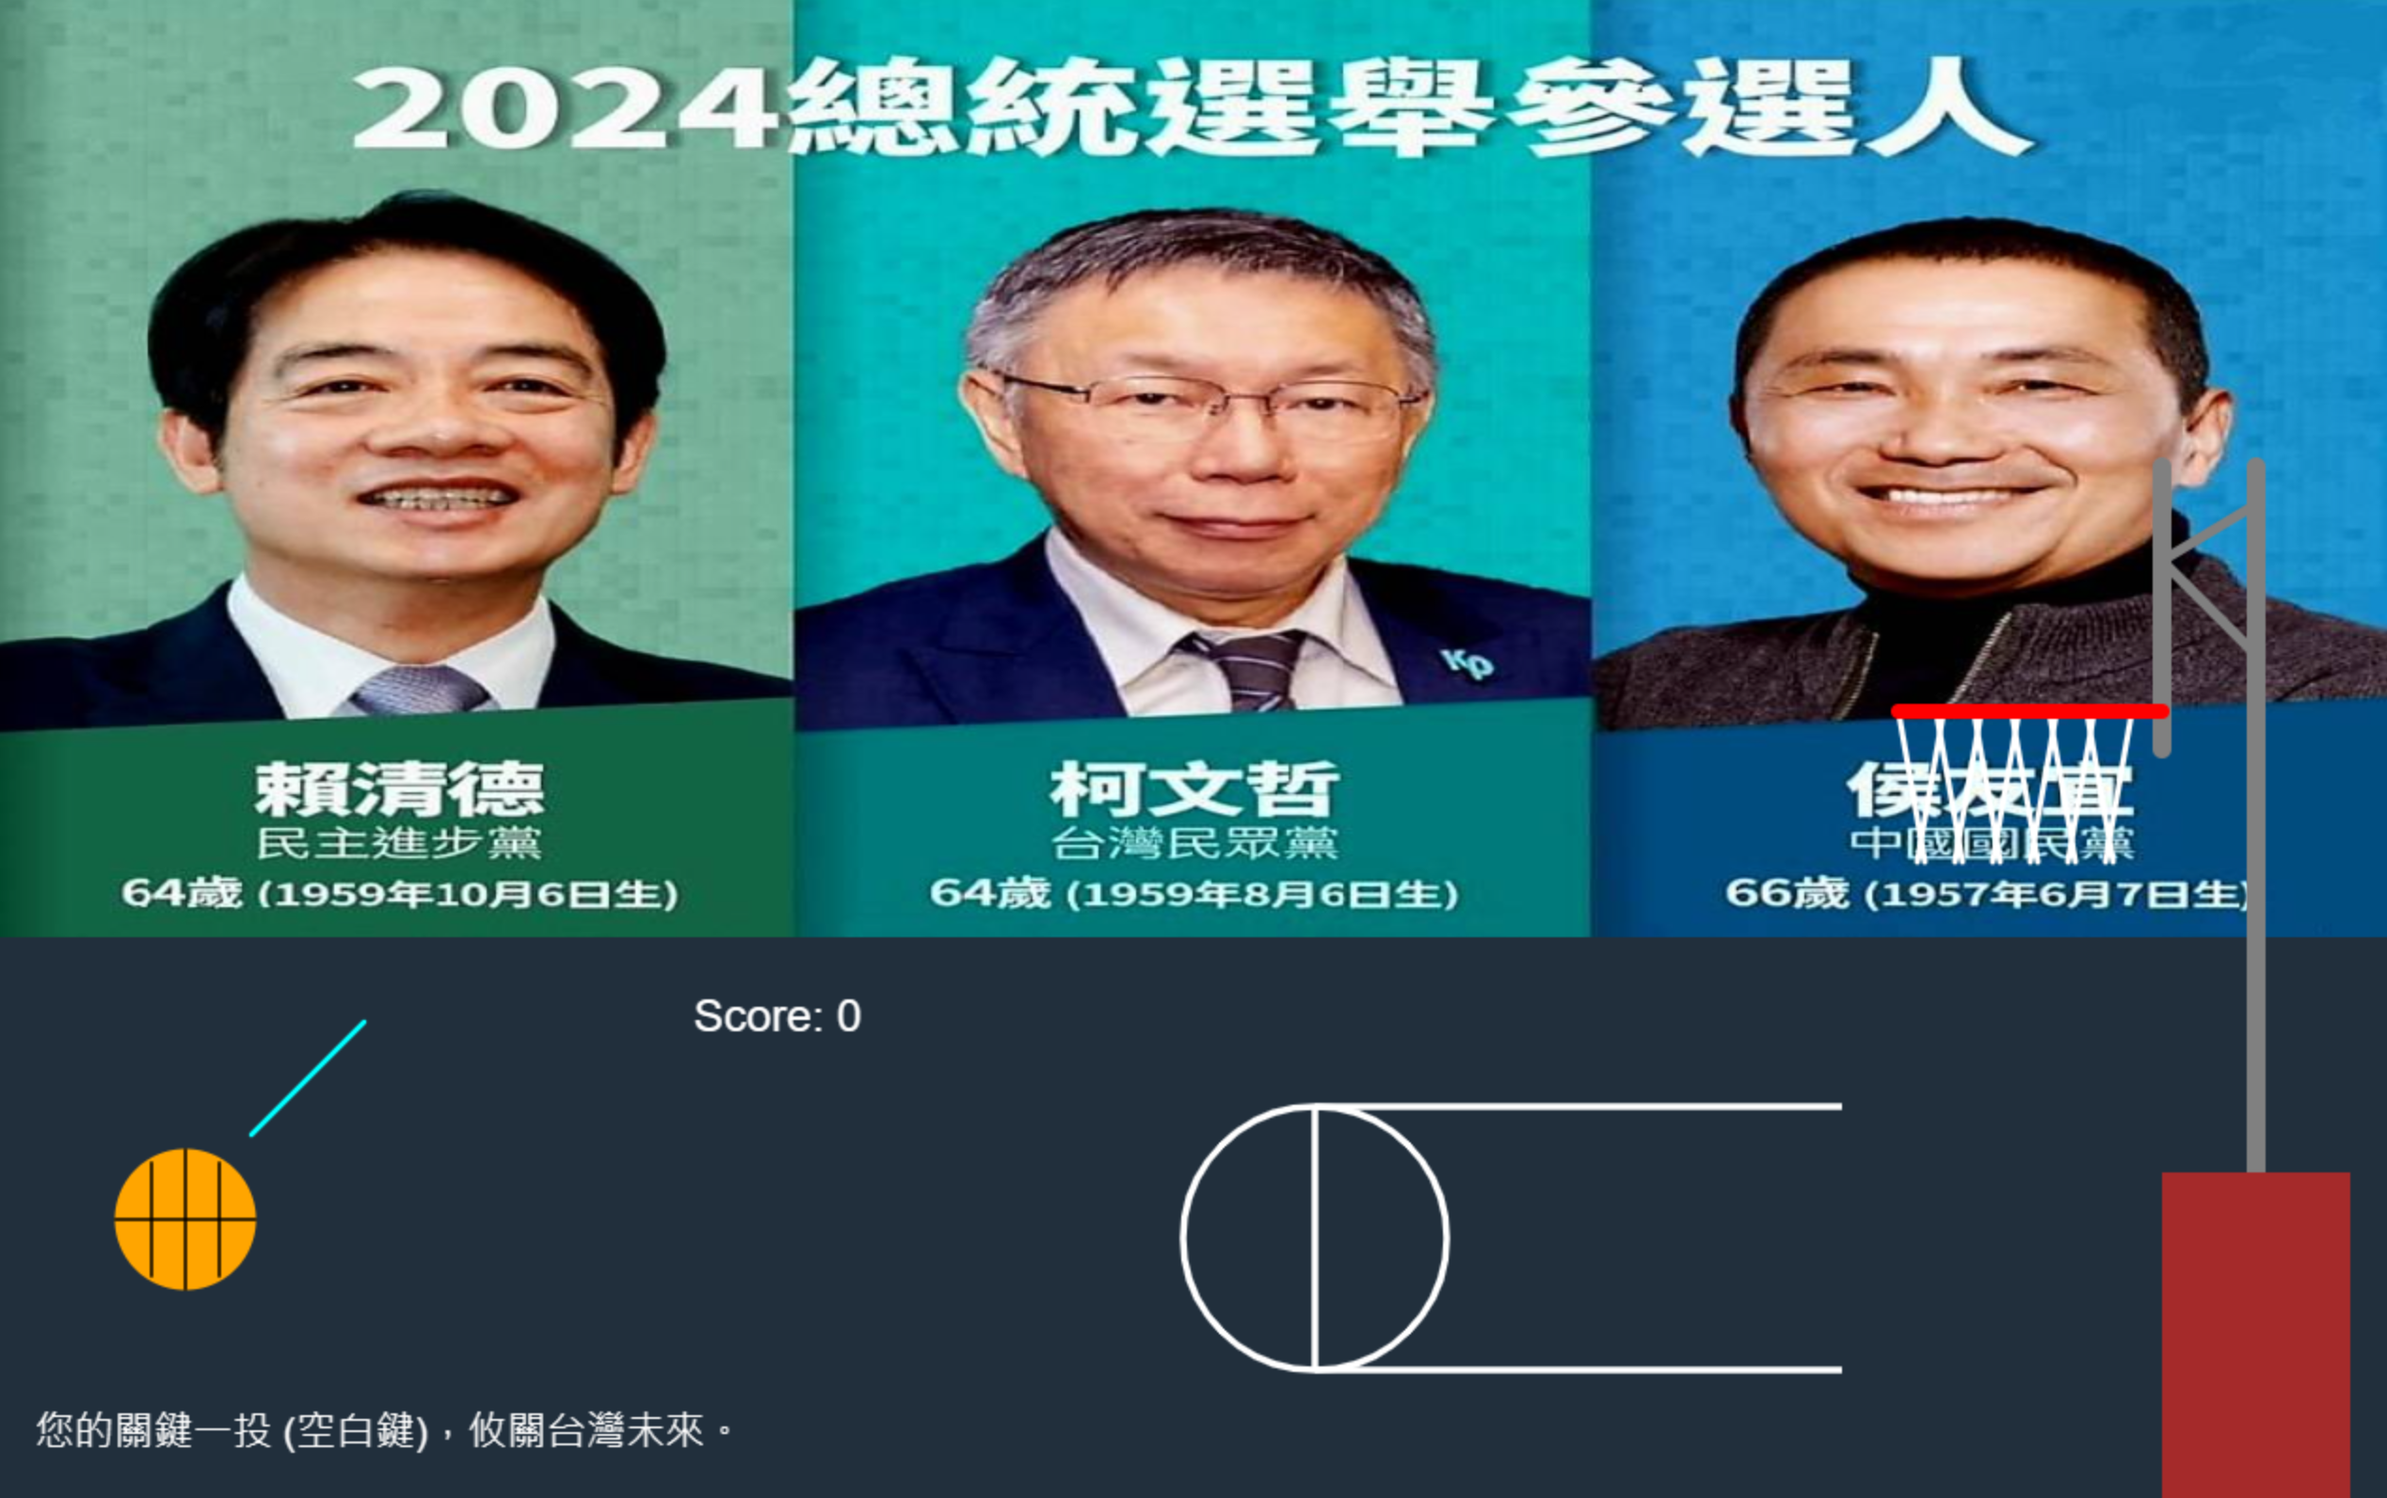
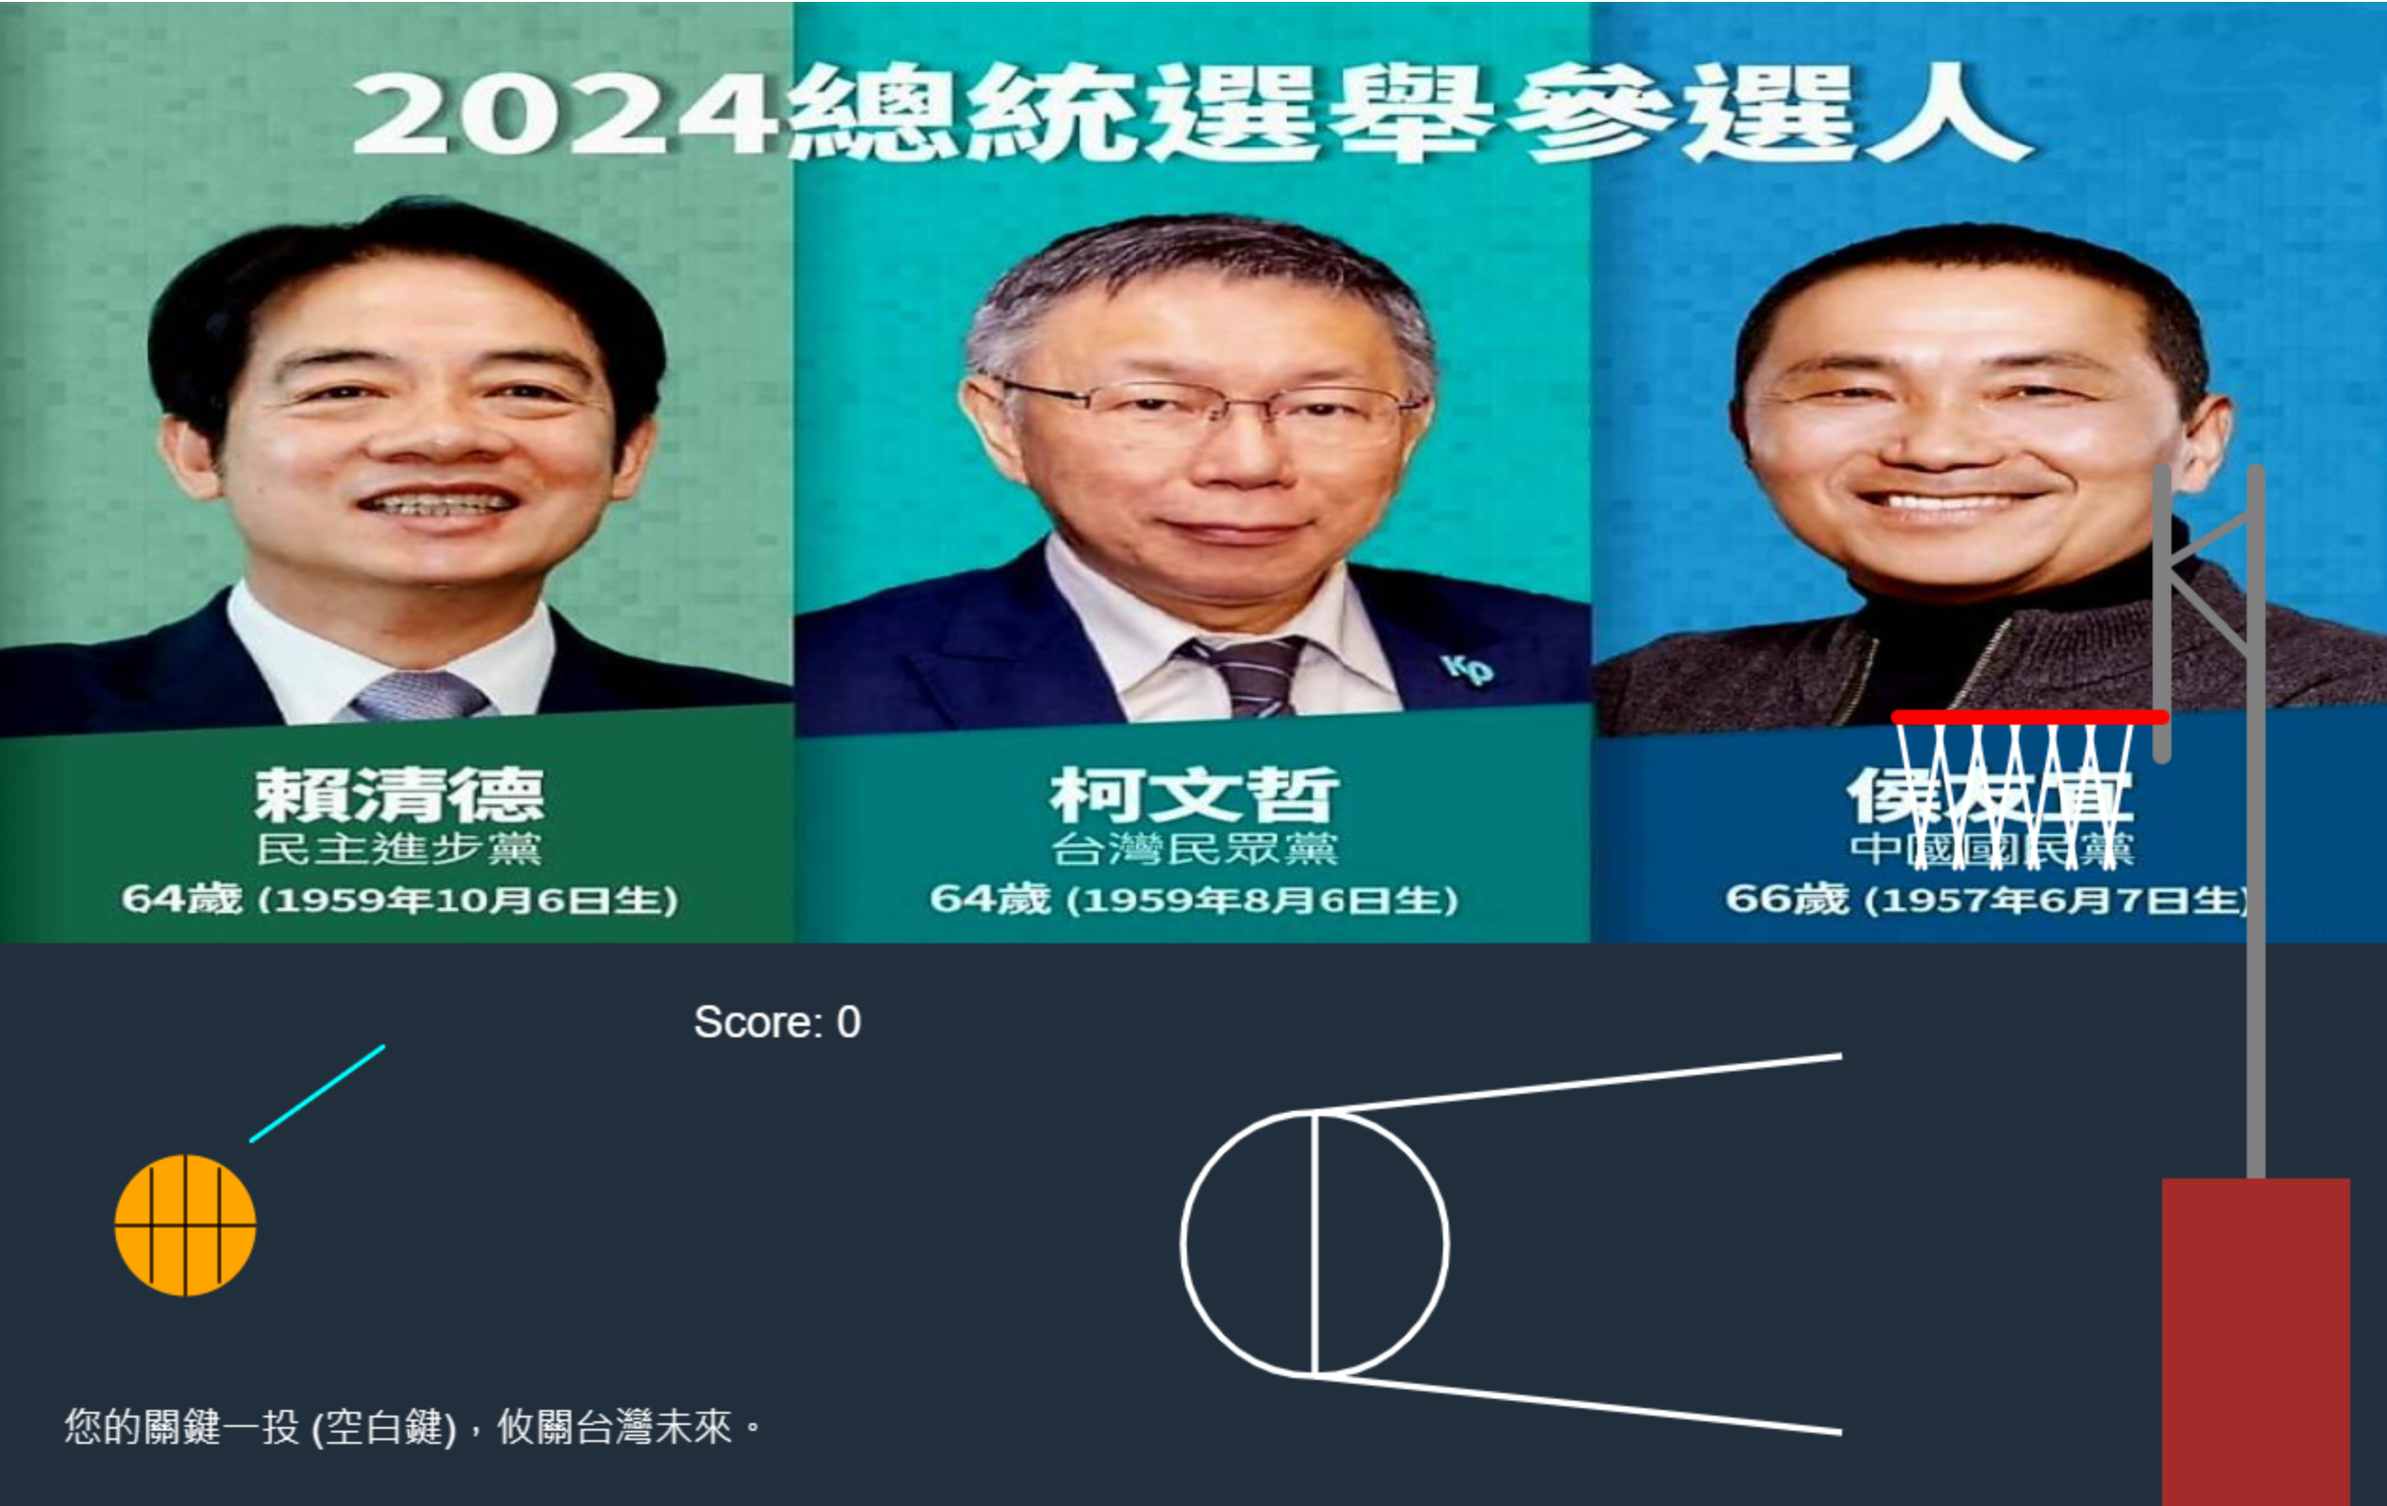
improve

diff --git a/js/basketball.js b/js/basketball.js
@@ -10,7 +10,7 @@ var Score = function (){
 Score.prototype.draw = function (ctx) {
 	ctx.font = "21px Arial";
     ctx.fillStyle = 'white';
-    ctx.fillText("您的關鍵一投 (空白鍵)，攸關台灣未來。", 20, 770);
+    ctx.fillText("您的關鍵一投 (空白鍵)，攸關台灣未來。", 35, 765);
    	ctx.font = "24px Arial";
     ctx.fillStyle = 'white';
     ctx.fillText("Score: " + this.playerScore, 370, 550);

diff --git a/js/background.js b/js/background.js
@@ -10,12 +10,12 @@ var drawCourt = function(){
 	ctx2.strokeStyle = 'white';
 	ctx2.lineWidth = 3.5;
 	ctx2.beginPath();
-	ctx2.moveTo(980,730);
+	ctx2.moveTo(980,760);
 	ctx2.lineTo(700,730);
 	ctx2.stroke();
 	ctx2.closePath();
 	ctx2.beginPath();
-	ctx2.moveTo(980,590);
+	ctx2.moveTo(980,560);
 	ctx2.lineTo(700,590);
 	ctx2.stroke();
 	ctx2.closePath();

diff --git a/README.md b/README.md
@@ -8,3 +8,4 @@ https://charleswang.us/basketball/
 
 ### Screenshot
 ![game](game.png)
+![game1](game1.png)
